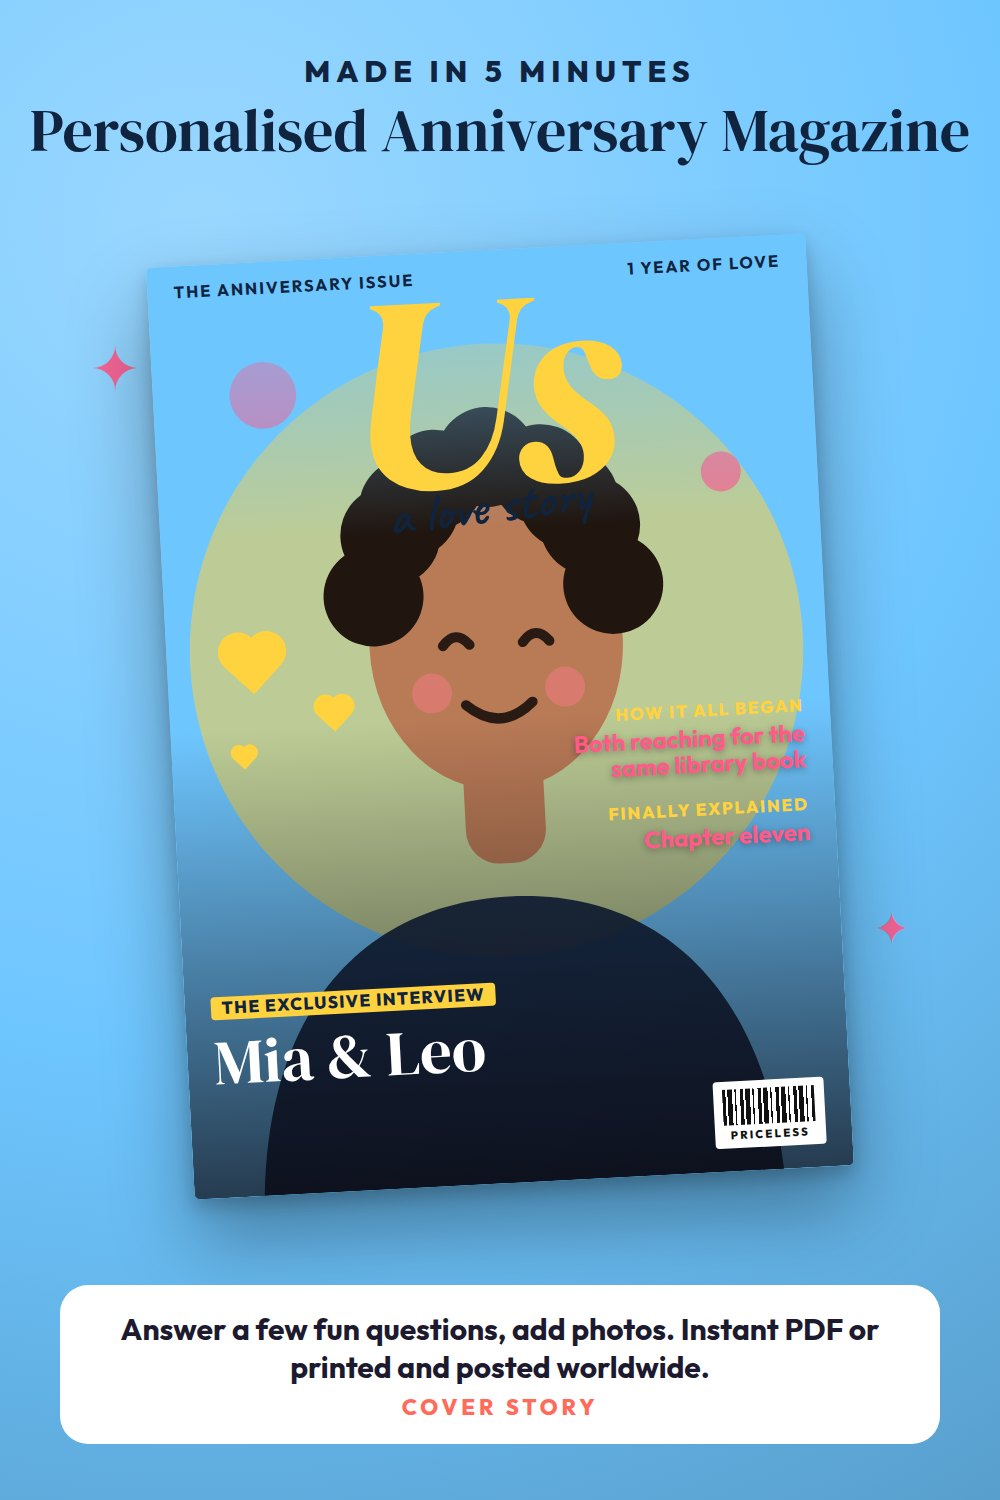
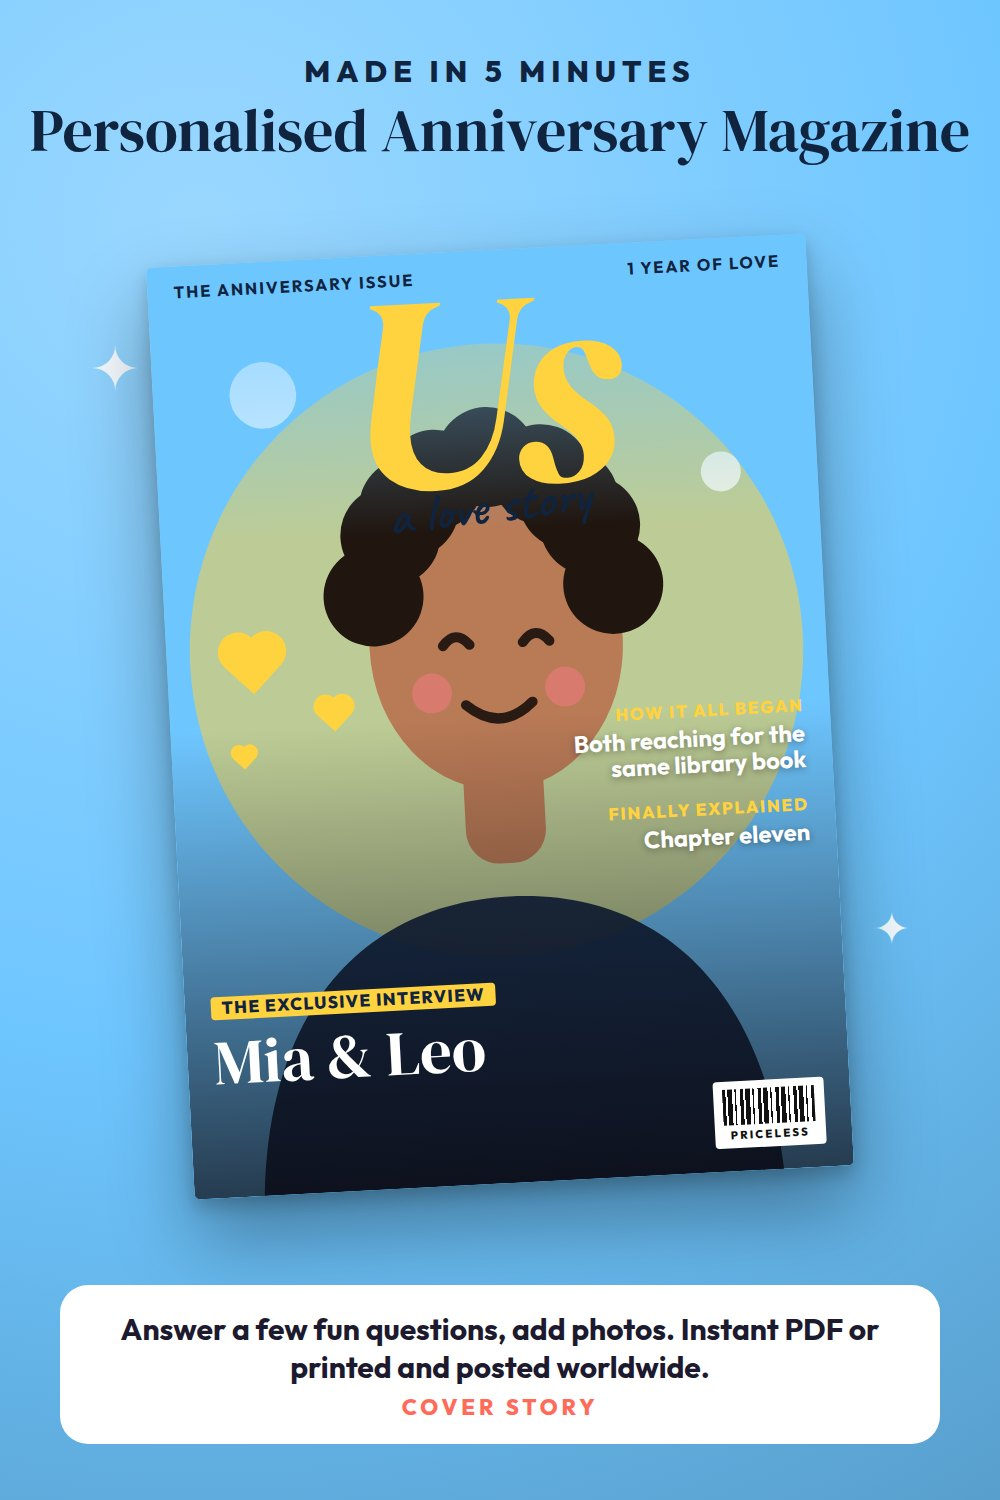
Add the order PDF maker and fix page contrast
npm run make-pdf turns one order into a finished A4 magazine PDF. Inside
pages and the sky palette now keep readable contrast on every colour.

Claude-Session: https://claude.ai/code/session_01E6NoEXTZ7h8CnWFYnTcR3K

diff --git a/store/src/covers.js b/store/src/covers.js
@@ -7,7 +7,7 @@ export const PALETTES = {
   butter:   { bg: '#ffd23f', ink: '#1d1a2f', accent: '#ff4f7b', pop: '#ffffff' },
   mint:     { bg: '#7ee0b5', ink: '#14323a', accent: '#ff6b5b', pop: '#fffbe8' },
   rose:     { bg: '#f7c6cf', ink: '#3a0f1f', accent: '#c2185b', pop: '#ffffff' },
-  sky:      { bg: '#6ec6ff', ink: '#10233f', accent: '#ffd23f', pop: '#ff5a8a' },
+  sky:      { bg: '#6ec6ff', ink: '#10233f', accent: '#ffd23f', pop: '#ffffff' },
   paper:    { bg: '#f3ead8', ink: '#1b1b1b', accent: '#8b1e1e', pop: '#ffffff' },
 };
 
@@ -152,5 +152,27 @@ export function renderPages(mag, values = {}, { palette = 'coral', portraitOpts 
     pg('letter', `<p class="pg-kicker">${esc(letterTitle)}</p><h3>Dear ${esc(who)},</h3><p class="pg-body">${esc(v.message)}</p><p class="pg-sign">With love, ${esc(from)}</p>`),
     pg('facts', `<p class="pg-kicker">By the numbers</p><h3>All about ${esc(who)}</h3><dl>${facts.map(f => `<dt>${esc(f.label)}</dt><dd>${esc(v[f.id])}</dd>`).join('')}</dl>`),
     pg('photos', `<p class="pg-kicker">The photo spread</p>${photoOrPortrait(photos.photo2, { ...portraitOpts, hair: portraitOpts.hair }, p, 'pg-ph pg-ph1')}${photoOrPortrait(photos.photo3, portraitOpts, p, 'pg-ph pg-ph2')}<p class="pg-cap">${esc(v.moment || v.trip || v.miss || v.fact || '')}</p>`),
+  ];
+}
+
+// The complete magazine for the finished PDF: cover, inside pages, a big
+// feature page and a back cover.
+export function renderFullMagazine(mag, values = {}, opts = {}) {
+  const p = PALETTES[opts.palette] || PALETTES.coral;
+  const v = fillValues(mag, values);
+  const who = v.name || v.names || v.forWho;
+  const from = v.from || v.fromWho || 'all of us';
+  const feature = {
+    birthday: ['The moment everyone still talks about', v.moment],
+    anniversary: ['What I love most about you', v.love],
+    newspaper: ['What we miss most', v.miss],
+    kids: ['When I grow up I want to be', v.dream],
+  }[mag.layout] || ['A moment to remember', v.message];
+  const style = `style="${vars(p)}"`;
+  return [
+    renderCover(mag, values, opts),
+    ...renderPages(mag, values, opts),
+    `<div class="pg pg-feature" ${style}><div class="pg-in"><p class="pg-kicker">${esc(feature[0])}</p><blockquote>&ldquo;${esc(feature[1])}&rdquo;</blockquote><p class="pg-sign">About ${esc(who)}, with love</p></div></div>`,
+    `<div class="pg pg-back" ${style}><div class="pg-in"><p class="pg-kicker">That's a wrap</p><h3>The end.<br>Until the next issue.</h3><p class="pg-body">Made for ${esc(who)} by ${esc(from)}.</p>${barcode()}</div></div>`,
   ];
 }

diff --git a/store/assets/covers.css b/store/assets/covers.css
@@ -115,10 +115,10 @@
 .pg-in { padding: 9cqw 8cqw; }
 .pg { background: #fffaf2; color: #1d1a2f; }
 .pg::before { content: ''; position: absolute; inset: 0 0 auto 0; height: 3cqw; background: var(--bg); }
-.pg-kicker { margin: 0 0 3cqw; font-size: 2.8cqw; font-weight: 800; letter-spacing: .16em; text-transform: uppercase; color: var(--bg); filter: brightness(.8); }
+.pg-kicker { margin: 0 0 3cqw; font-size: 2.8cqw; font-weight: 800; letter-spacing: .16em; text-transform: uppercase; color: color-mix(in srgb, var(--bg) 55%, var(--ink)); }
 .pg h3 { margin: 0 0 5cqw; font-family: 'DM Serif Display', serif; font-weight: 400; font-size: 9cqw; line-height: 1; }
 .pg-body { font-family: 'DM Serif Display', serif; font-size: 5.4cqw; line-height: 1.35; margin: 0 0 6cqw; }
-.pg-body::first-letter { float: left; font-size: 15cqw; line-height: .8; margin: 1cqw 2cqw 0 0; color: var(--bg); filter: brightness(.85); }
+.pg-body::first-letter { float: left; font-size: 15cqw; line-height: .8; margin: 1cqw 2cqw 0 0; color: color-mix(in srgb, var(--bg) 55%, var(--ink)); }
 .pg-sign { font-family: 'Caveat', cursive; font-size: 7cqw; margin: 0; }
 .pg dl { margin: 0; display: grid; gap: 3.2cqw; }
 .pg dt { font-size: 2.6cqw; font-weight: 800; letter-spacing: .1em; text-transform: uppercase; opacity: .6; }
@@ -127,3 +127,12 @@
 .pg-ph1 { left: 7cqw; top: 22cqw; width: 54cqw; height: 66cqw; transform: rotate(-4deg); }
 .pg-ph2 { right: 7cqw; top: 70cqw; width: 46cqw; height: 54cqw; transform: rotate(5deg); }
 .pg-cap { position: absolute; left: 8cqw; right: 8cqw; bottom: 8cqw; margin: 0; font-family: 'Caveat', cursive; font-size: 6cqw; line-height: 1.05; }
+.pg-feature, .pg-back { background: var(--bg); color: var(--ink); }
+.pg-feature .pg-kicker, .pg-back .pg-kicker { color: var(--ink); opacity: .7; }
+.pg-feature::before, .pg-back::before { background: var(--accent); }
+.pg-feature .pg-in, .pg-back .pg-in { height: 100%; display: flex; flex-direction: column; justify-content: center; }
+.pg-feature blockquote { margin: 0 0 6cqw; font-family: 'DM Serif Display', serif; font-size: 9cqw; line-height: 1.08; }
+.pg-back { text-align: center; }
+.pg-back .pg-in { align-items: center; }
+.pg-back h3 { font-size: 11cqw; }
+.pg-back .pg-body::first-letter { float: none; font-size: inherit; margin: 0; color: inherit; }

diff --git a/store/README.md b/store/README.md
@@ -19,6 +19,16 @@ npm install
 npm run pins       # writes 1000 x 1500 images into pins/
 ```
 
+## Making an order's magazine
+
+When an order comes in (Netlify Forms shows the answers and photos), save it as a small JSON file like `examples/order-example.json`, then:
+
+```
+npm run make-pdf -- order.json
+```
+
+This makes the finished A4 PDF (cover, letter, facts, photo spread, feature page and back cover) with the buyer's photos inside. Send the PDF by email, or upload it to Prodigi for a printed copy. Prodigi's magazines need at least 20 pages, so printed copies need extra pages added before that part goes live.
+
 ## What is where
 
 | Path | What it is |
